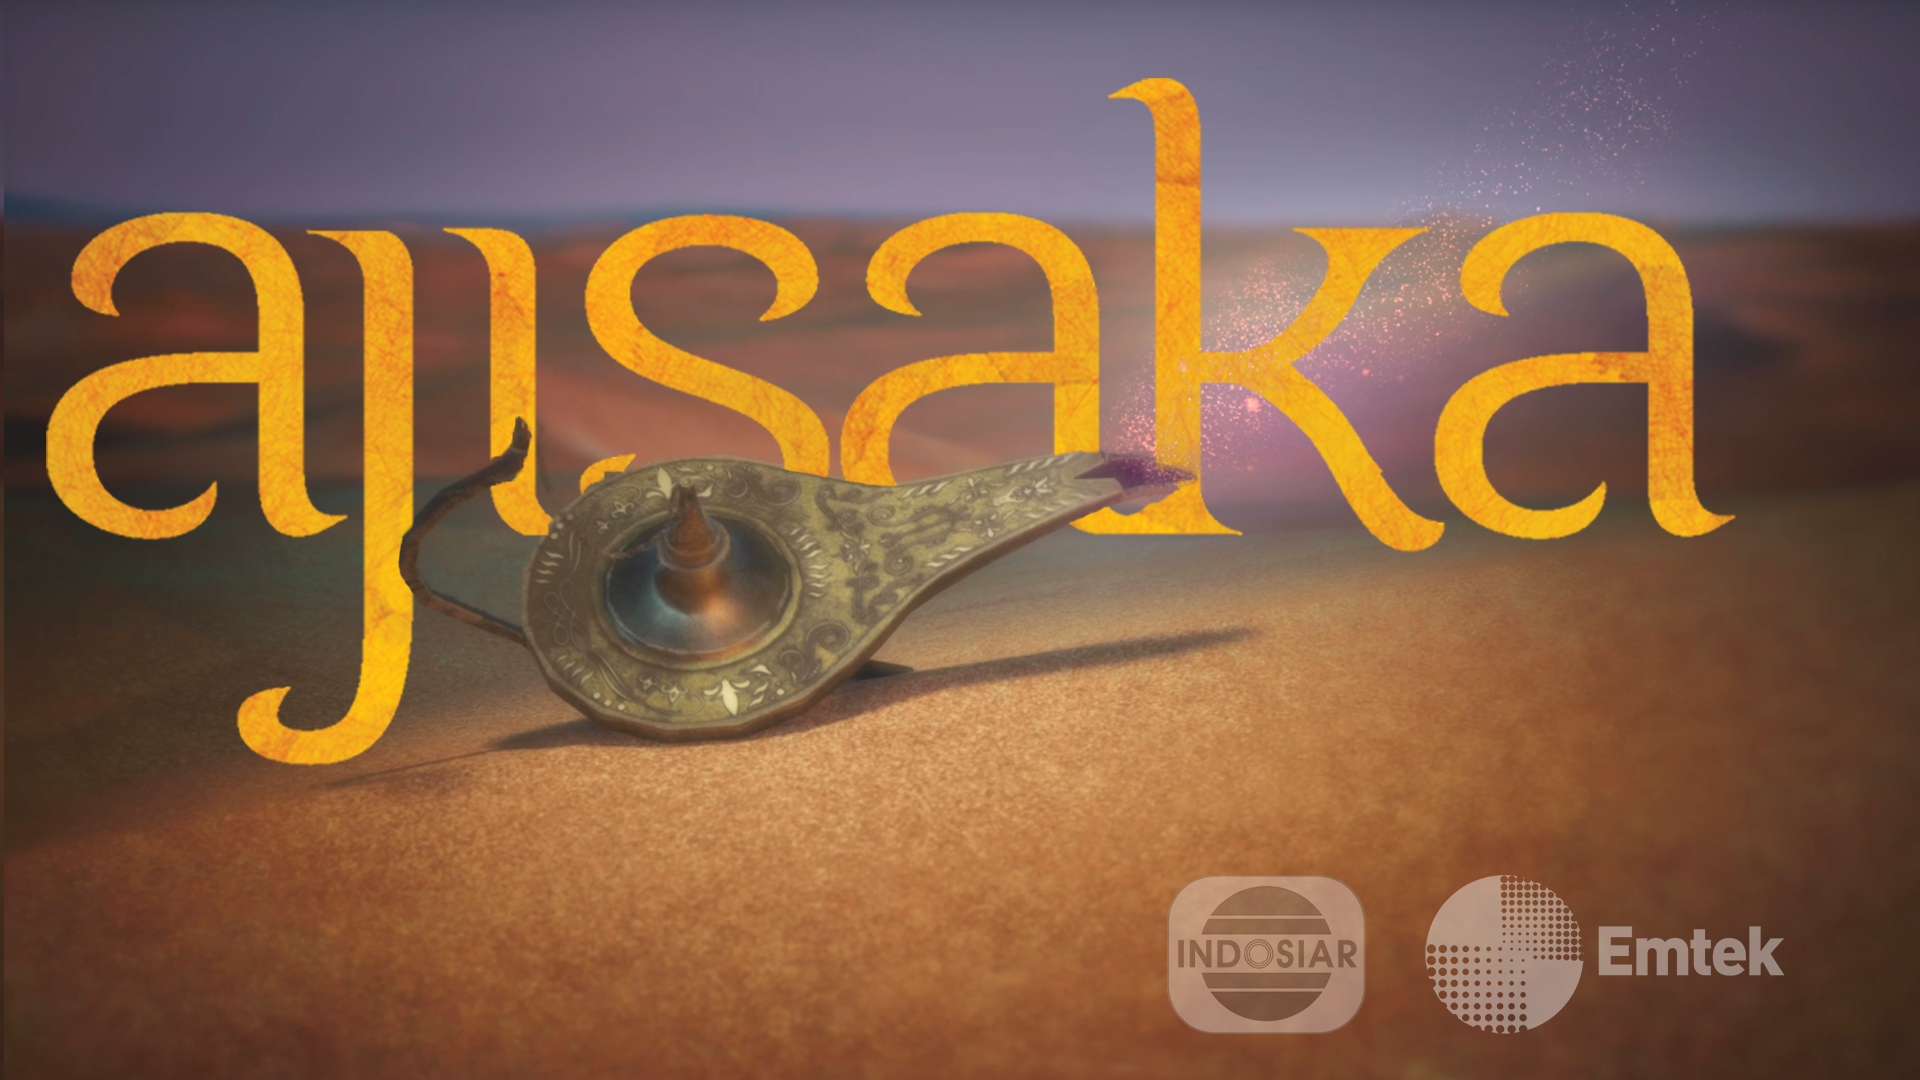
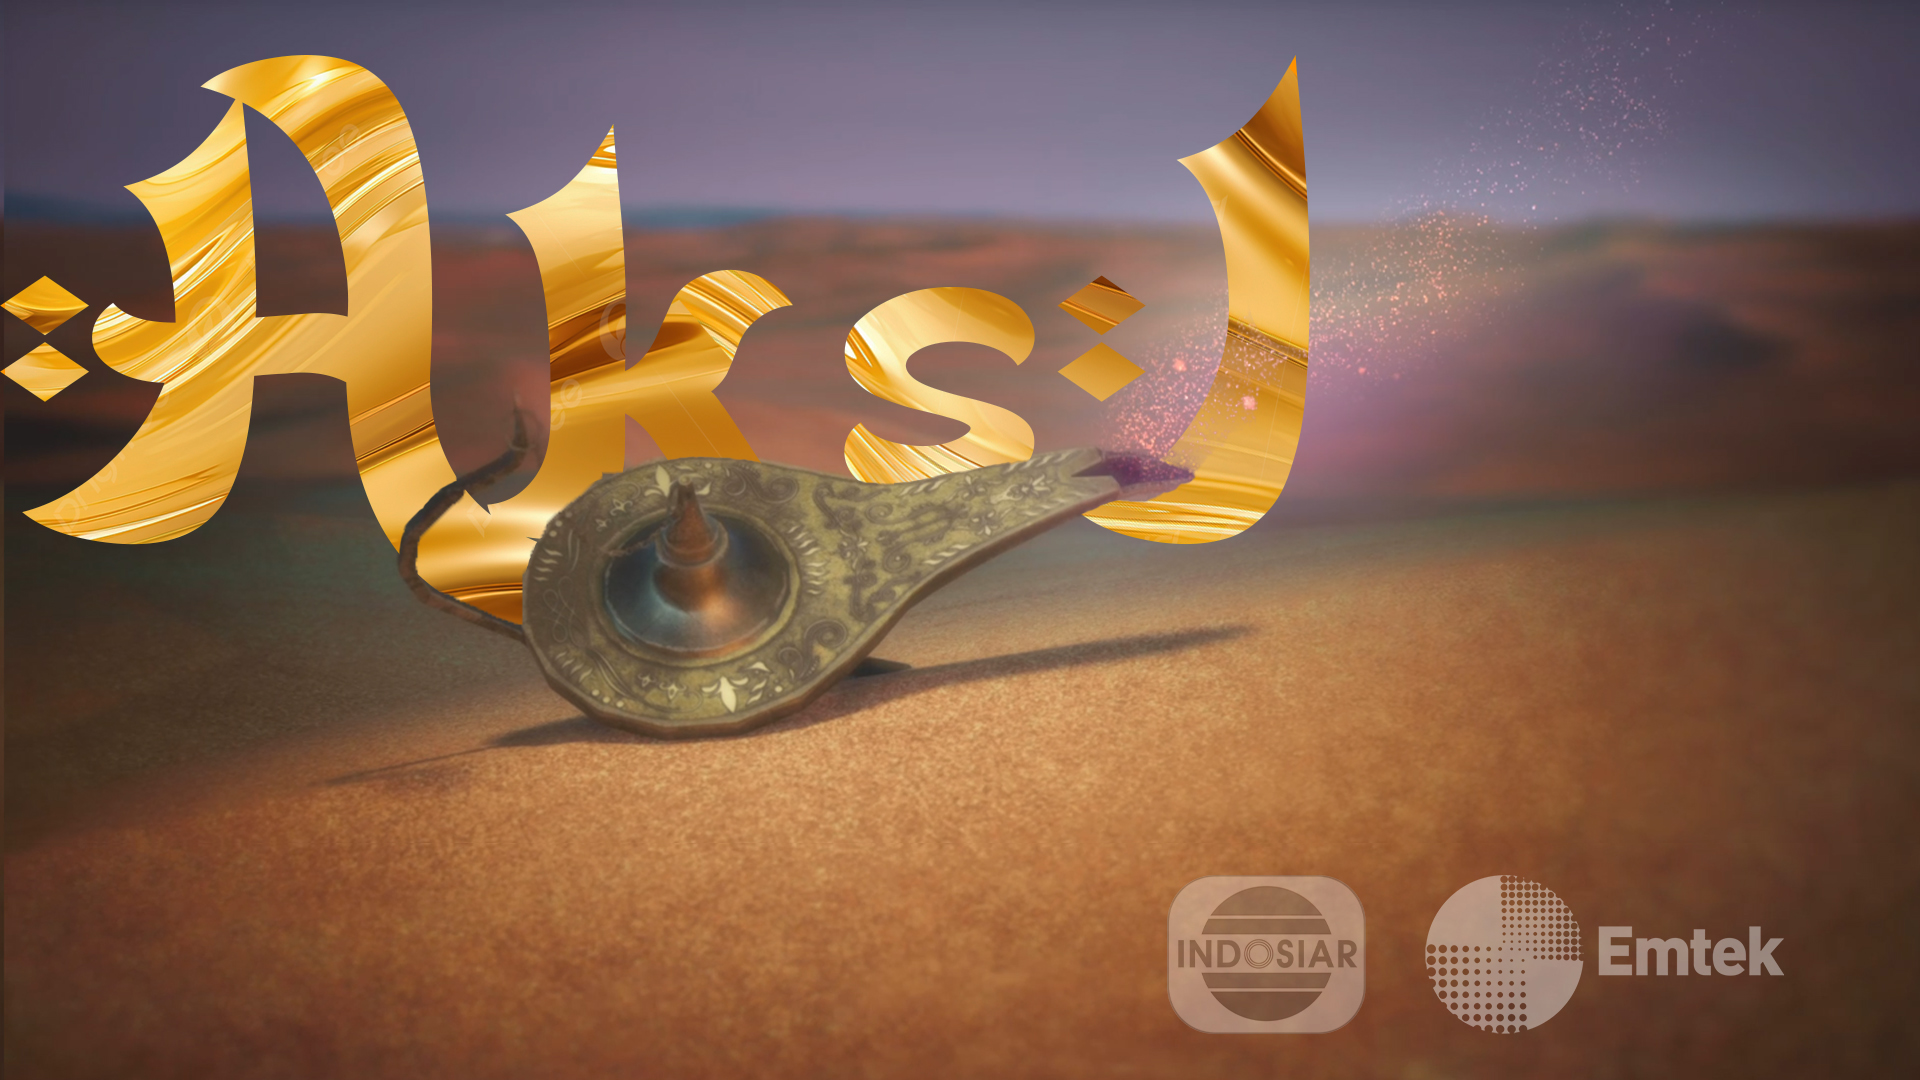
kodnusif

Changed region(s): [[0.0, 0.0306, 0.9062, 0.7333]]

diff --git a/portfolio-single-1.html b/portfolio-single-1.html
@@ -364,7 +364,7 @@
               </div>
             </div>
                                                        <!-- Judul  --> 
-            <h2 class="heading-portfolio-single-h2" style="font-weight: bold; font-family: Arial, sans-serif; font-size: 45px;">&nbsp;&nbsp;&nbsp;AKSI INDOSIAR</h2>
+            <h2 class="heading-portfolio-single-h2" style="font-weight: bold; font-family: Arial, sans-serif; font-size: 37px;">&nbsp;Aksi Indosiar</h2>
                                                       <!-- Kotak 4  -->  
               <div id="posts" class="row gutter-isotope-item">
                 <div class="item branding packaging illustration col-sm-6 col-md-6 col-lg-4 isotope-mb-2 ">
@@ -394,7 +394,12 @@
               <div class="item branding packaging illustration col-sm-6 col-md-6 col-lg-4 isotope-mb-2 ">
                 <a href="https://drive.google.com/file/d/13IDYhL6xPrzK0XrfMf6THK3nQR-mX-eJ/preview" class="portfolio-item isotope-item gsap-reveal-img"data-fancybox="gallery"data-caption="Ajisaka Live Indosiar"data-type="iframe">
                     <div class="overlay">
-                      <span class="wrap-icon icon-play_circle_filled"></span>
+                      <img src="images/svg2/006-playbutton.svg"   alt="Play Button" 
+                      style="width: 60px; height: 60px; opacity: 0.8; position: absolute; top: 50%; left: 50%; transform: translate(-50%, -50%); transition: all 0.3s ease;"
+                      onmouseover="this.style.transform='translate(-50%, -50%) scale(1.1)';"
+                      onmouseout="this.style.transform='translate(-50%, -50%) scale(1)';"
+                      ontouchstart="this.style.transform='translate(-50%, -50%) scale(1.1)';"
+                      ontouchend="this.style.transform='translate(-50%, -50%) scale(1)';">
                       <div class="portfolio-item-content">
                         <h3>Ajisaka Live Indosiar</h3>
                       <p></p>
@@ -487,7 +492,31 @@
   <script src="js/scripts-dist.js"></script>
   <script src="js/main.js"></script>
 
-
+  <script>
+    document.querySelectorAll('.overlay').forEach(function(overlay) {
+      const img = overlay.querySelector('img');
+      const playButton = overlay.querySelector('.play-button'); // Asumsi svg play button kasih class "play-button"
+    
+      overlay.addEventListener('touchstart', function(e) {
+        img.style.filter = 'brightness(70%)';
+        img.style.transform = 'scale(1.05)';
+        if (playButton) {
+          playButton.style.opacity = '0.9'; // munculin tombol play
+        }
+        e.preventDefault(); // untuk kurangi delay
+      });
+    
+      overlay.addEventListener('touchend', function() {
+        img.style.filter = 'brightness(100%)';
+        img.style.transform = 'scale(1)';
+        if (playButton) {
+          playButton.style.opacity = '0'; // sembunyikan tombol play
+        }
+      });
+    });
+    </script>
+    
+    
 </body>
 
 </html>
